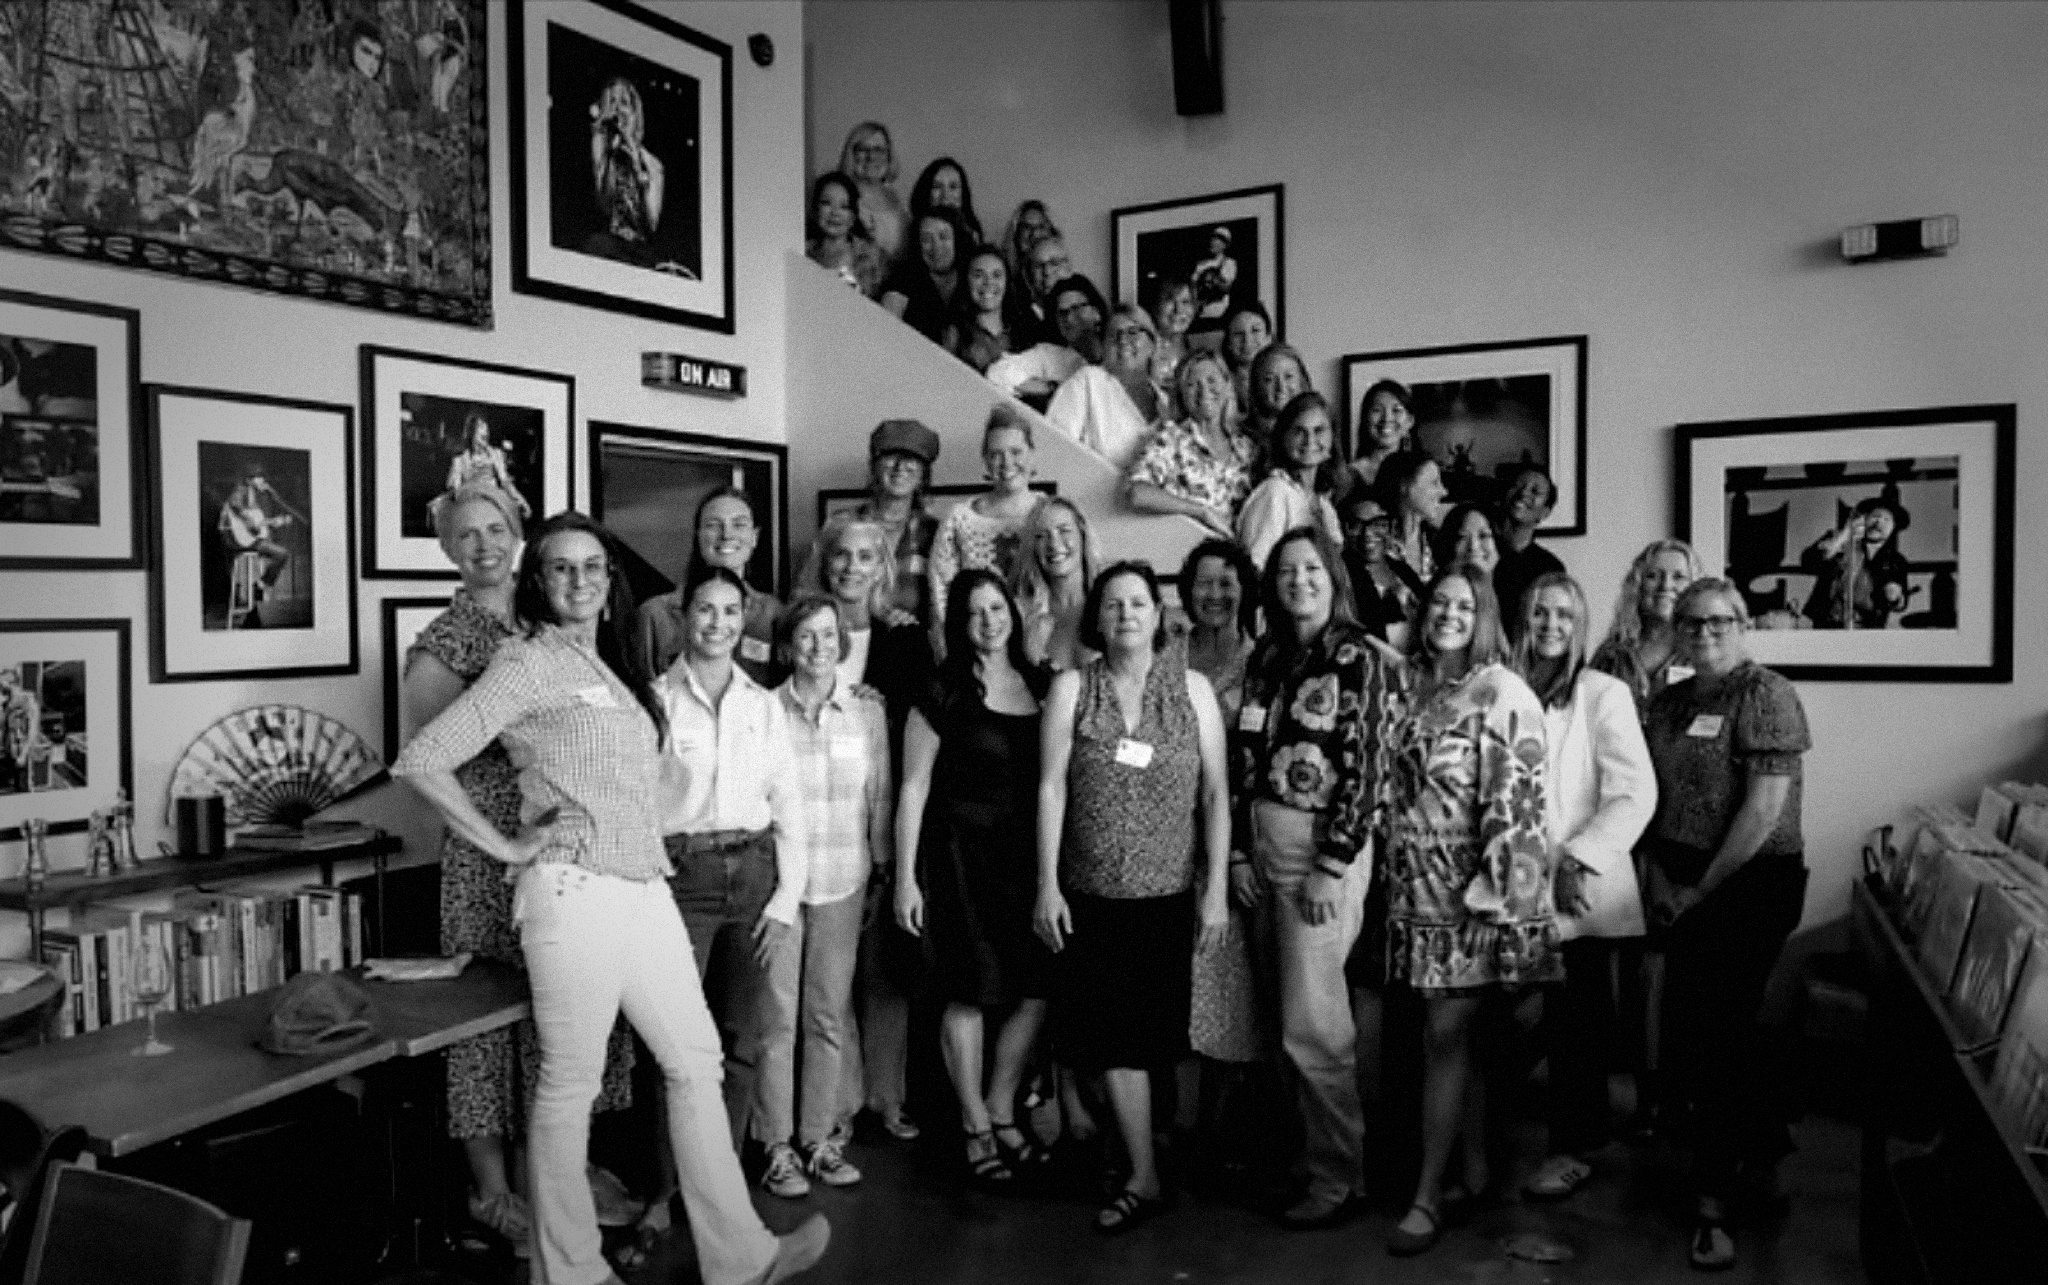
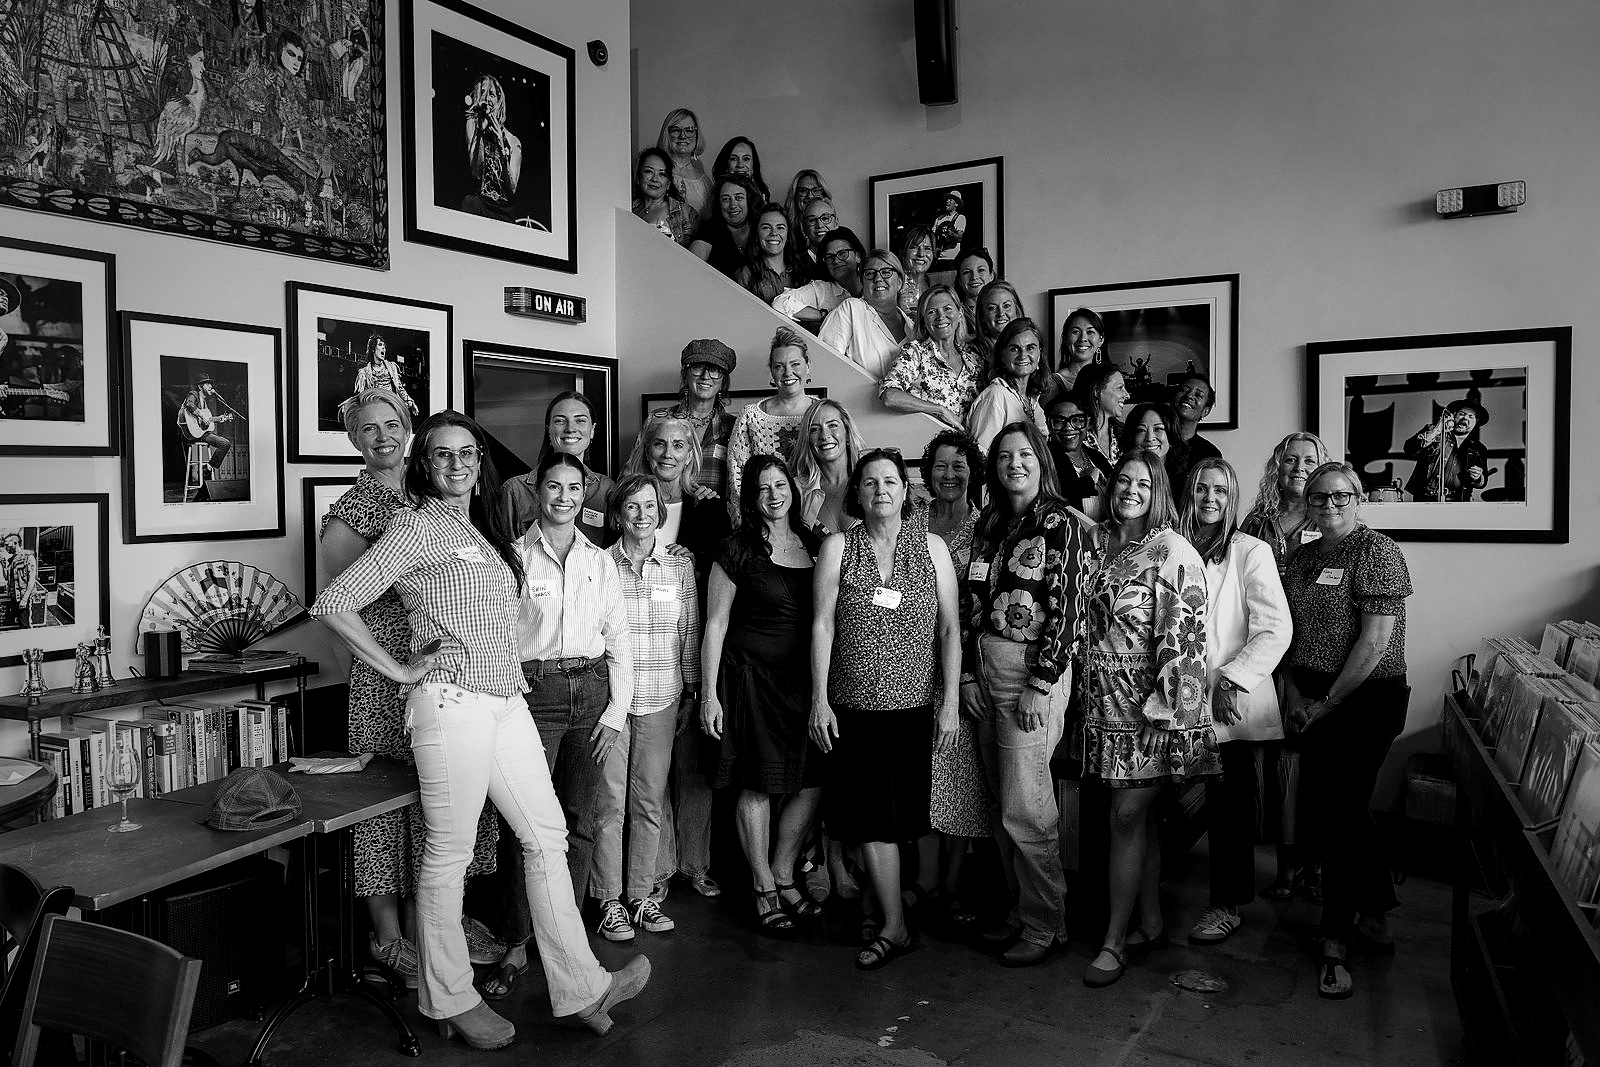
Adds donate button and photo credits - also adds base url functionality

diff --git a/src/data/site-config.ts b/src/data/site-config.ts
@@ -1,17 +1,10 @@
 import hero from '../assets/images/bwiw_hero_crop_v2_bw_topcropped.jpg';
 import avatar from '../assets/images/wine-glass.png';
-import { BASE_PATH } from '../config/site.js';
+import { withBasePath } from '../config/site.js';
 import type { SiteConfig } from '../types';
 
-const basePath = BASE_PATH;
-const withBase = (path = '') => {
-  const normalizedBase = basePath === '/' ? '' : `/${basePath.replace(/^\/|\/$/g, '')}`;
-  const normalizedPath = path ? `/${path.replace(/^\/+/, '')}` : '/';
-  return `${normalizedBase}${normalizedPath}`.replace(/\/{2,}/g, '/');
-};
-
 const siteConfig: SiteConfig = {
-  website: withBase(),
+  website: withBasePath(),
   avatar: {
     src: avatar,
     alt: 'Badass Women In Wine'
@@ -20,31 +13,35 @@ const siteConfig: SiteConfig = {
   subtitle: 'Women in wine empowering women in wine',
   description: 'A community of women in wine championing leadership, integrity, generosity, and professional growth.',
   image: {
-    src: withBase('bwiw_hero_crop_v2_bw_topcropped.jpg'),
+    src: withBasePath('bwiw_hero_crop_v2_bw_topcropped.jpg'),
     alt: 'Badass Women In Wine'
   },
   headerNavLinks: [
     {
       text: 'Home',
-      href: withBase()
+      href: withBasePath()
     },
     {
       text: 'About',
-      href: withBase('about')
+      href: withBasePath('about')
     },
     {
       text: 'Contact',
-      href: withBase('contact')
+      href: withBasePath('contact')
+    },
+    {
+      text: 'Donate',
+      href: '#'
     }
   ],
   footerNavLinks: [
     {
       text: 'About',
-      href: withBase('about')
+      href: withBasePath('about')
     },
     {
       text: 'Contact',
-      href: withBase('contact')
+      href: withBasePath('contact')
     }
   ],
   socialLinks: [
@@ -62,12 +59,13 @@ const siteConfig: SiteConfig = {
     text: "Badass Women in Wine is a community of women in the wine world empowering women in the wine world—rooted in leadership, integrity, generosity, and professionalism. We create space to connect, learn, and grow together, while celebrating the talent and drive that keeps this industry moving forward.\n\nThrough gatherings, events, and shared experiences, we elevate one another—amplifying voices, building relationships, and opening doors. If you’re here to lead with purpose, support others, and keep showing up with excellence (and a great glass in hand), you’re in the right place. \n\nFor information on who we are, the Heilmann Trophy for Badass Women in Wine, and event updates please follow us on our social media channels.",
     image: {
       src: hero,
-      alt: 'A person sitting at a desk in front of a computer'
+      alt: 'A person sitting at a desk in front of a computer',
+      caption: 'Photo by Janeth R Sanchez'
     },
     actions: [
       {
         text: 'Get in Touch',
-        href: withBase('contact')
+        href: withBasePath('contact')
       }
     ],
     instagramTitle: 'Latest on Instagram',

diff --git a/src/config/site.js b/src/config/site.js
@@ -1,4 +1,19 @@
 const RAW_BASE_PATH = '/';
 
-export const BASE_PATH =
-  RAW_BASE_PATH === '/' ? '/' : `/${RAW_BASE_PATH.replace(/^\/+|\/+$/g, '')}`;
+export const normalizeBasePath = (basePath = '/') => {
+  if (!basePath || basePath === '/') return '/';
+  return `/${String(basePath).replace(/^\/+|\/+$/g, '')}`;
+};
+
+export const BASE_PATH = normalizeBasePath(RAW_BASE_PATH);
+
+export const withBasePath = (path = '', basePath = BASE_PATH) => {
+  const normalizedBase = normalizeBasePath(basePath);
+  const normalizedPath = String(path).replace(/^\/+/, '');
+
+  if (!normalizedPath) {
+    return normalizedBase === '/' ? '/' : `${normalizedBase}/`;
+  }
+
+  return normalizedBase === '/' ? `/${normalizedPath}` : `${normalizedBase}/${normalizedPath}`;
+};

diff --git a/README.md b/README.md
@@ -1,3 +1,25 @@
+## Badass Women In Wine Site (Fork)
+
+This repository is a forked and customized version of the **Dante Astro theme** by Just Good UI, used to build the **Badass Women In Wine** website.
+
+### Base URL Configuration
+
+Base URL behavior is configured in:
+
+`src/config/site.js`
+
+Use `RAW_BASE_PATH` to control where the site is served:
+
+- `"/"`: site served from domain root (example: `https://example.com/`)
+- `"/BAWIW/"`: site served from a subpath (example: `https://example.com/BAWIW/`)
+- `"BAWIW/"`: also supported; it is normalized to `/BAWIW` internally
+
+The helper functions in this file normalize slashes and safely join paths, so links and asset URLs stay valid when switching between root and subpath hosting.
+
+See specific Dante build/preview/dev functionality below.
+
+---
+
 # Dante - Astro & Tailwind CSS Theme by justgoodui.com
 
 Dante is a single-author blog and portfolio theme for Astro.js. Featuring a minimal, slick, responsive and content-focused design. For more Astro.js themes please check [justgoodui.com](https://justgoodui.com/).